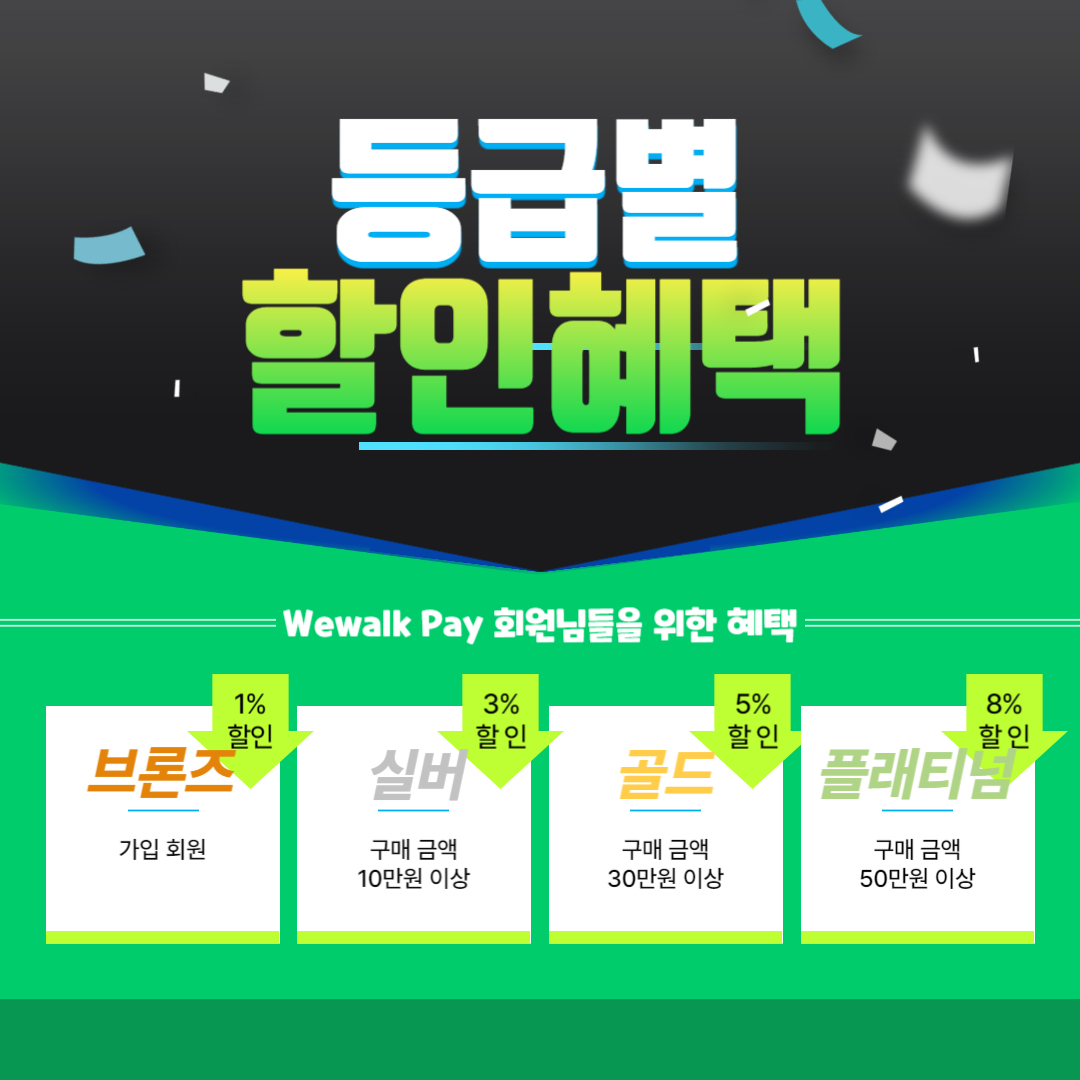
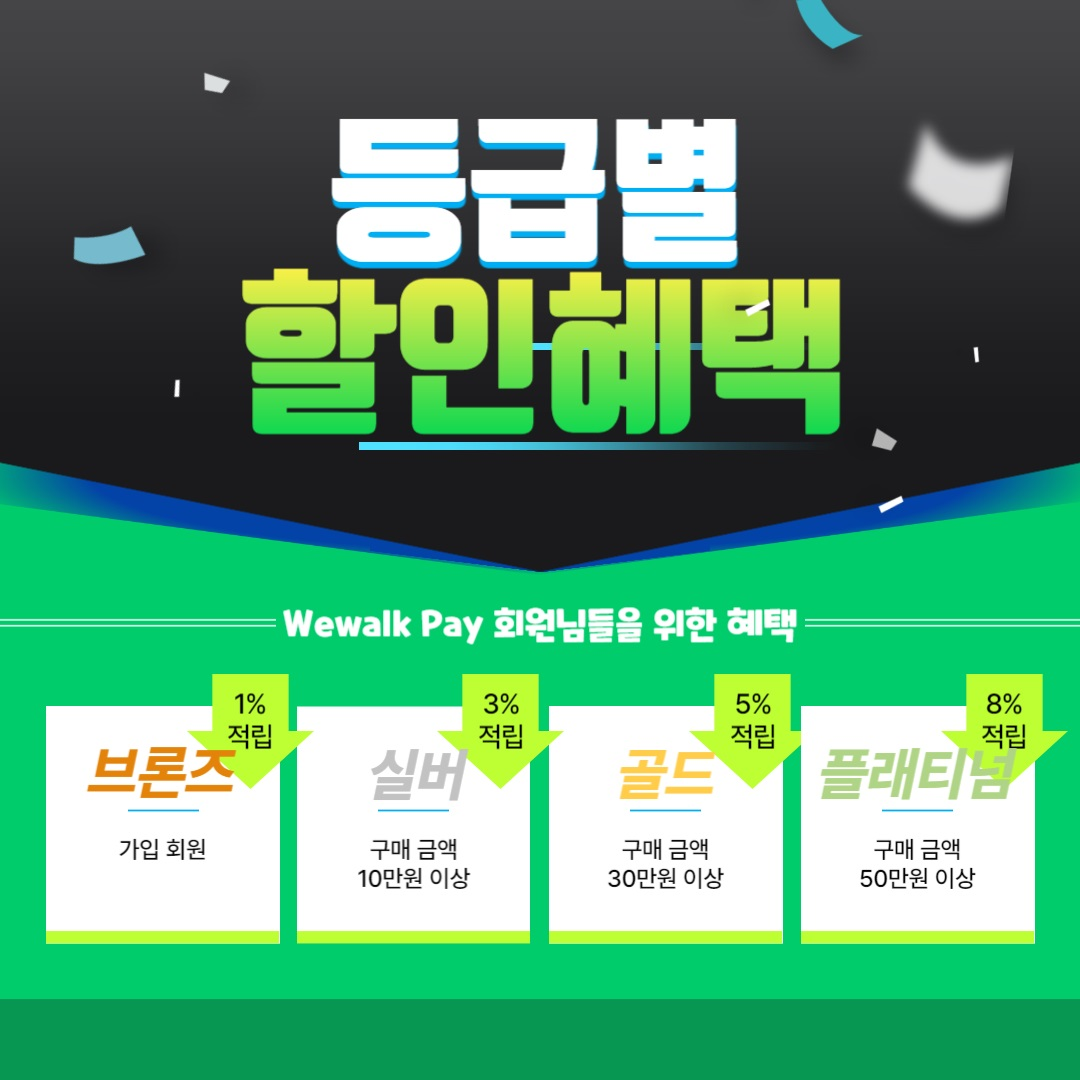
적립 조건문 / 할인-> 적립 변경

diff --git a/src/main/resources/templates/mypage.html b/src/main/resources/templates/mypage.html
@@ -38,17 +38,19 @@
 										</div>
                                         <div class="benefit">
 										    <strong class="tit"></strong>
-										    <span th:text="|적립 ${user.membership == true ? '10%' : 
-										        user.grade == 'B' ? '1%' : 
-										        user.grade == 'S' ? '3%' : 
-										        user.grade == 'G' ? '5%' : 
-										        user.grade == 'P' ? '8%' : ''}|"></span>
+										    <span th:text="|적립 ${user.membership == true ? (user.grade == 'B' ? '10% + 1%' : 
+							                                user.grade == 'S' ? '10% + 3%' : 
+							                                user.grade == 'G' ? '10% + 5%' : 
+							                                user.grade == 'P' ? '10% + 8%' : '10%') : 
+							                                (user.grade == 'P' ? '8%' : (user.grade == 'B' ? '1%' : 
+							                                user.grade == 'S' ? '3%' : 
+							                                user.grade == 'G' ? '5%' : ''))}|"></span>
 										</div>
                                     </div>
                                 </div>
                                 <div class="next">
                                     <a href="/user/mypage/myInterest" class="next_month">나의 관심 분야 설정하기</a>
-                                    <a href="/user/mypage/grade" class="total_grade">등급 별 할인혜택</a>
+                                    <a href="/user/mypage/grade" class="total_grade">등급 별 적립혜택</a>
                                 </div>
                             </div>
 

diff --git a/src/main/resources/templates/changeInfo.html b/src/main/resources/templates/changeInfo.html
@@ -136,7 +136,7 @@
                                 </div>
                                 <div class="next">
                                     <a href="/user/mypage/myInterest" class="next_month">나의 관심 분야 설정하기</a>
-                                    <a href="/user/mypage/grade" class="total_grade">등급 별 할인혜택</a>
+                                    <a href="/user/mypage/grade" class="total_grade">등급 별 적립혜택</a>
                                 </div>
                             </div>
 

diff --git a/src/main/resources/templates/membership.html b/src/main/resources/templates/membership.html
@@ -101,7 +101,7 @@
                                 </div>
                                 <div class="next">
                                     <a href="/user/mypage/myInterest" class="next_month">나의 관심 분야 설정하기</a>
-                                    <a href="/user/mypage/grade" class="total_grade">등급 별 할인혜택</a>
+                                    <a href="/user/mypage/grade" class="total_grade">등급 별 적립혜택</a>
                                 </div>
                             </div>
 

diff --git a/src/main/resources/templates/myshop_add.html b/src/main/resources/templates/myshop_add.html
@@ -200,7 +200,7 @@
                                 </div>
                                 <div class="next">
                                     <a href="/user/mypage/myInterest" class="next_month">나의 관심 분야 설정하기</a>
-                                    <a href="/user/mypage/grade" class="total_grade">등급 별 할인혜택</a>
+                                    <a href="/user/mypage/grade" class="total_grade">등급 별 적립혜택</a>
                                 </div>
                             </div>
 

diff --git a/src/main/resources/templates/myshop_edit.html b/src/main/resources/templates/myshop_edit.html
@@ -200,7 +200,7 @@
                                 </div>
                                 <div class="next">
                                     <a href="/user/mypage/myInterest" class="next_month">나의 관심 분야 설정하기</a>
-                                    <a href="/user/mypage/grade" class="total_grade">등급 별 할인혜택</a>
+                                    <a href="/user/mypage/grade" class="total_grade">등급 별 적립혜택</a>
                                 </div>
                             </div>
 

diff --git a/src/main/resources/templates/pay.html b/src/main/resources/templates/pay.html
@@ -198,7 +198,7 @@
                                 </div>
                                 <div class="next">
                                     <a href="/user/mypage/myInterest" class="next_month">나의 관심 분야 설정하기</a>
-                                    <a href="/user/mypage/grade" class="total_grade">등급 별 할인혜택</a>
+                                    <a href="/user/mypage/grade" class="total_grade">등급 별 적립혜택</a>
                                 </div>
                             </div>
 

diff --git a/src/main/resources/templates/shipping.html b/src/main/resources/templates/shipping.html
@@ -101,7 +101,7 @@
                                 </div>
                                 <div class="next">
                                     <a href="/user/mypage/myInterest" class="next_month">나의 관심 분야 설정하기</a>
-                                    <a href="/user/mypage/grade" class="total_grade">등급 별 할인혜택</a>
+                                    <a href="/user/mypage/grade" class="total_grade">등급 별 적립혜택</a>
                                 </div>
                             </div>
 

diff --git a/src/main/resources/templates/change.html b/src/main/resources/templates/change.html
@@ -61,7 +61,7 @@
                                 </div>
                                 <div class="next">
                                     <a href="/user/mypage/myInterest" class="next_month">나의 관심 분야 설정하기</a>
-                                    <a href="/user/mypage/grade" class="total_grade">등급 별 할인혜택</a>
+                                    <a href="/user/mypage/grade" class="total_grade">등급 별 적립혜택</a>
                                 </div>
                             </div>
 

diff --git a/src/main/resources/templates/changeSuccess.html b/src/main/resources/templates/changeSuccess.html
@@ -46,7 +46,7 @@
                                 </div>
                                 <div class="next">
                                     <a href="/user/mypage/myInterest" class="next_month">나의 관심 분야 설정하기</a>
-                                    <a href="/user/mypage/grade" class="total_grade">등급 별 할인혜택</a>
+                                    <a href="/user/mypage/grade" class="total_grade">등급 별 적립혜택</a>
                                 </div>
                             </div>
 

diff --git a/src/main/resources/templates/grade.html b/src/main/resources/templates/grade.html
@@ -51,7 +51,7 @@
                                 </div>
                                 <div class="next">
                                     <a href="/user/mypage/myInterest" class="next_month">나의 관심 분야 설정하기</a>
-                                    <a href="/user/mypage/grade" class="total_grade">등급 별 할인혜택</a>
+                                    <a href="/user/mypage/grade" class="total_grade">등급 별 적립혜택</a>
                                 </div>
                             </div>
 

diff --git a/src/main/resources/templates/myBuyHistory.html b/src/main/resources/templates/myBuyHistory.html
@@ -47,7 +47,7 @@
                                 </div>
                                 <div class="next">
                                     <a href="/user/mypage/myInterest" class="next_month">나의 관심 분야 설정하기</a>
-                                    <a href="/user/mypage/grade" class="total_grade">등급 별 할인혜택</a>
+                                    <a href="/user/mypage/grade" class="total_grade">등급 별 적립혜택</a>
                                 </div>
                             </div>
 

diff --git a/src/main/resources/templates/myInterest.html b/src/main/resources/templates/myInterest.html
@@ -74,7 +74,7 @@
                                 </div>
                                 <div class="next">
                                     <a href="/user/mypage/myInterest" class="next_month">나의 관심 분야 설정하기</a>
-                                    <a href="/user/mypage/grade" class="total_grade">등급 별 할인혜택</a>
+                                    <a href="/user/mypage/grade" class="total_grade">등급 별 적립혜택</a>
                                 </div>
                             </div>
 
